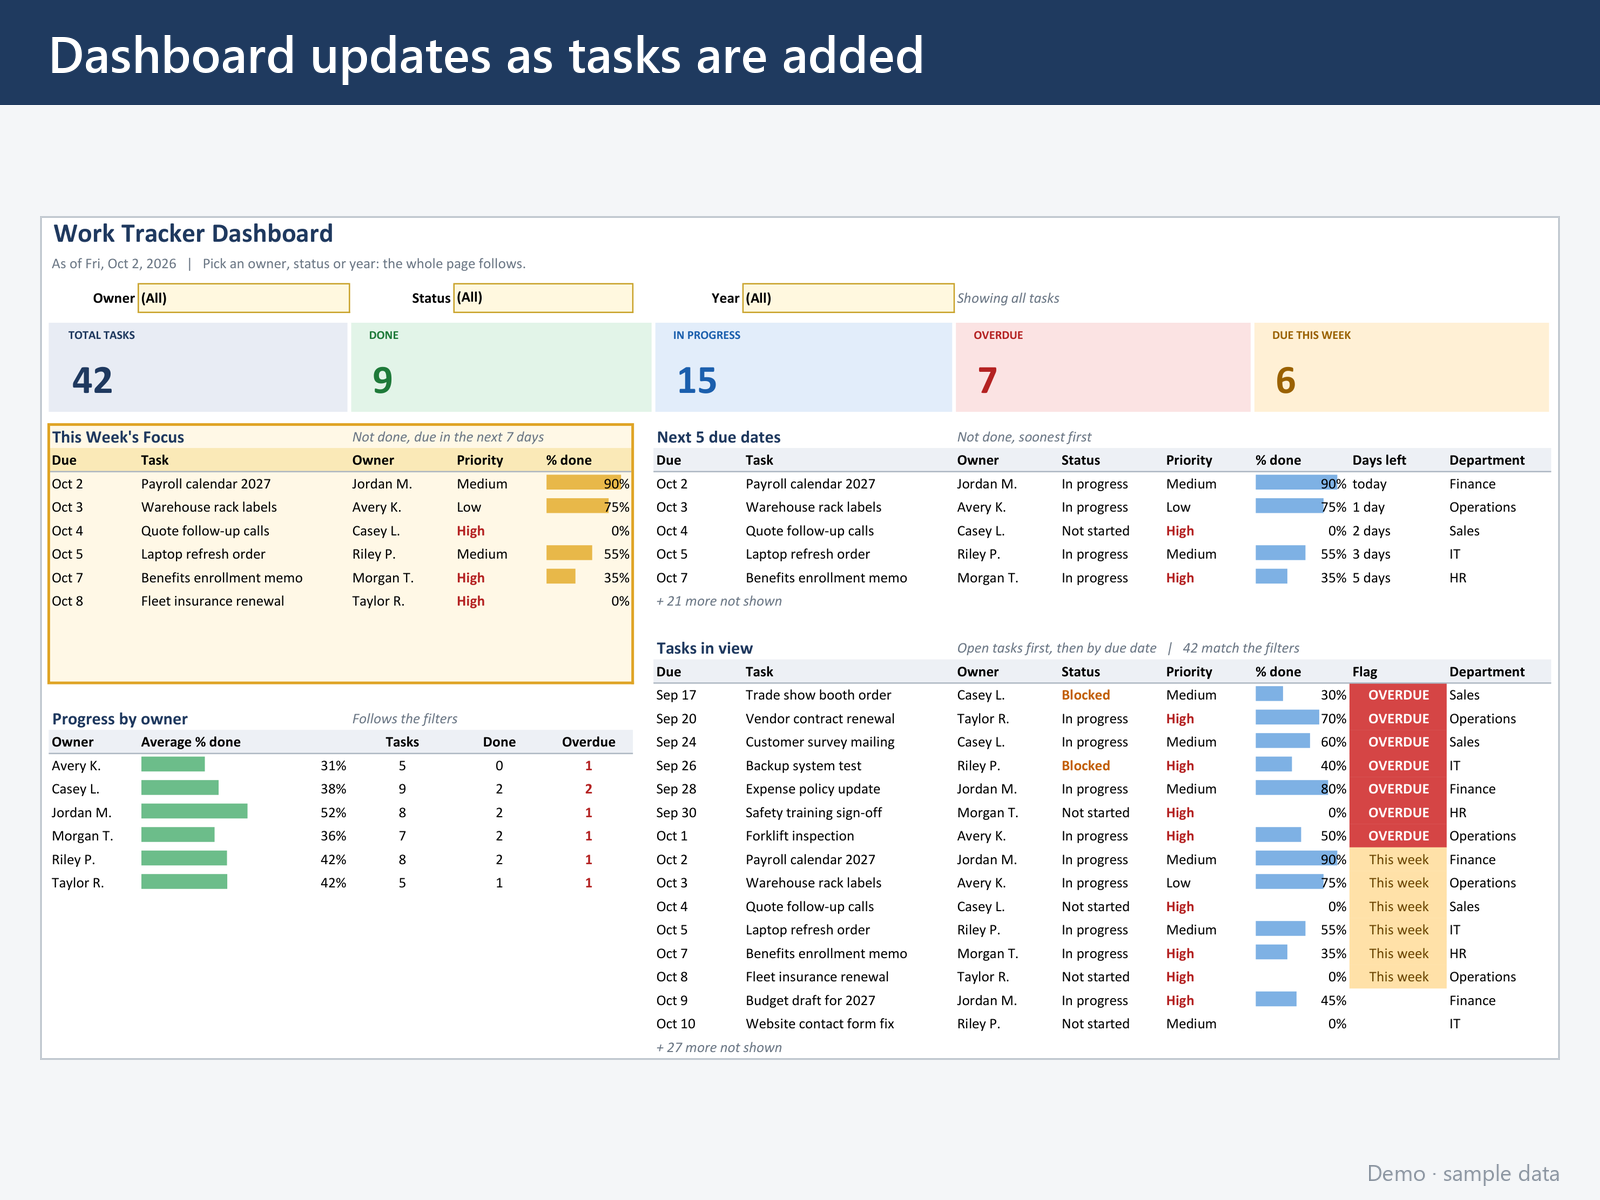
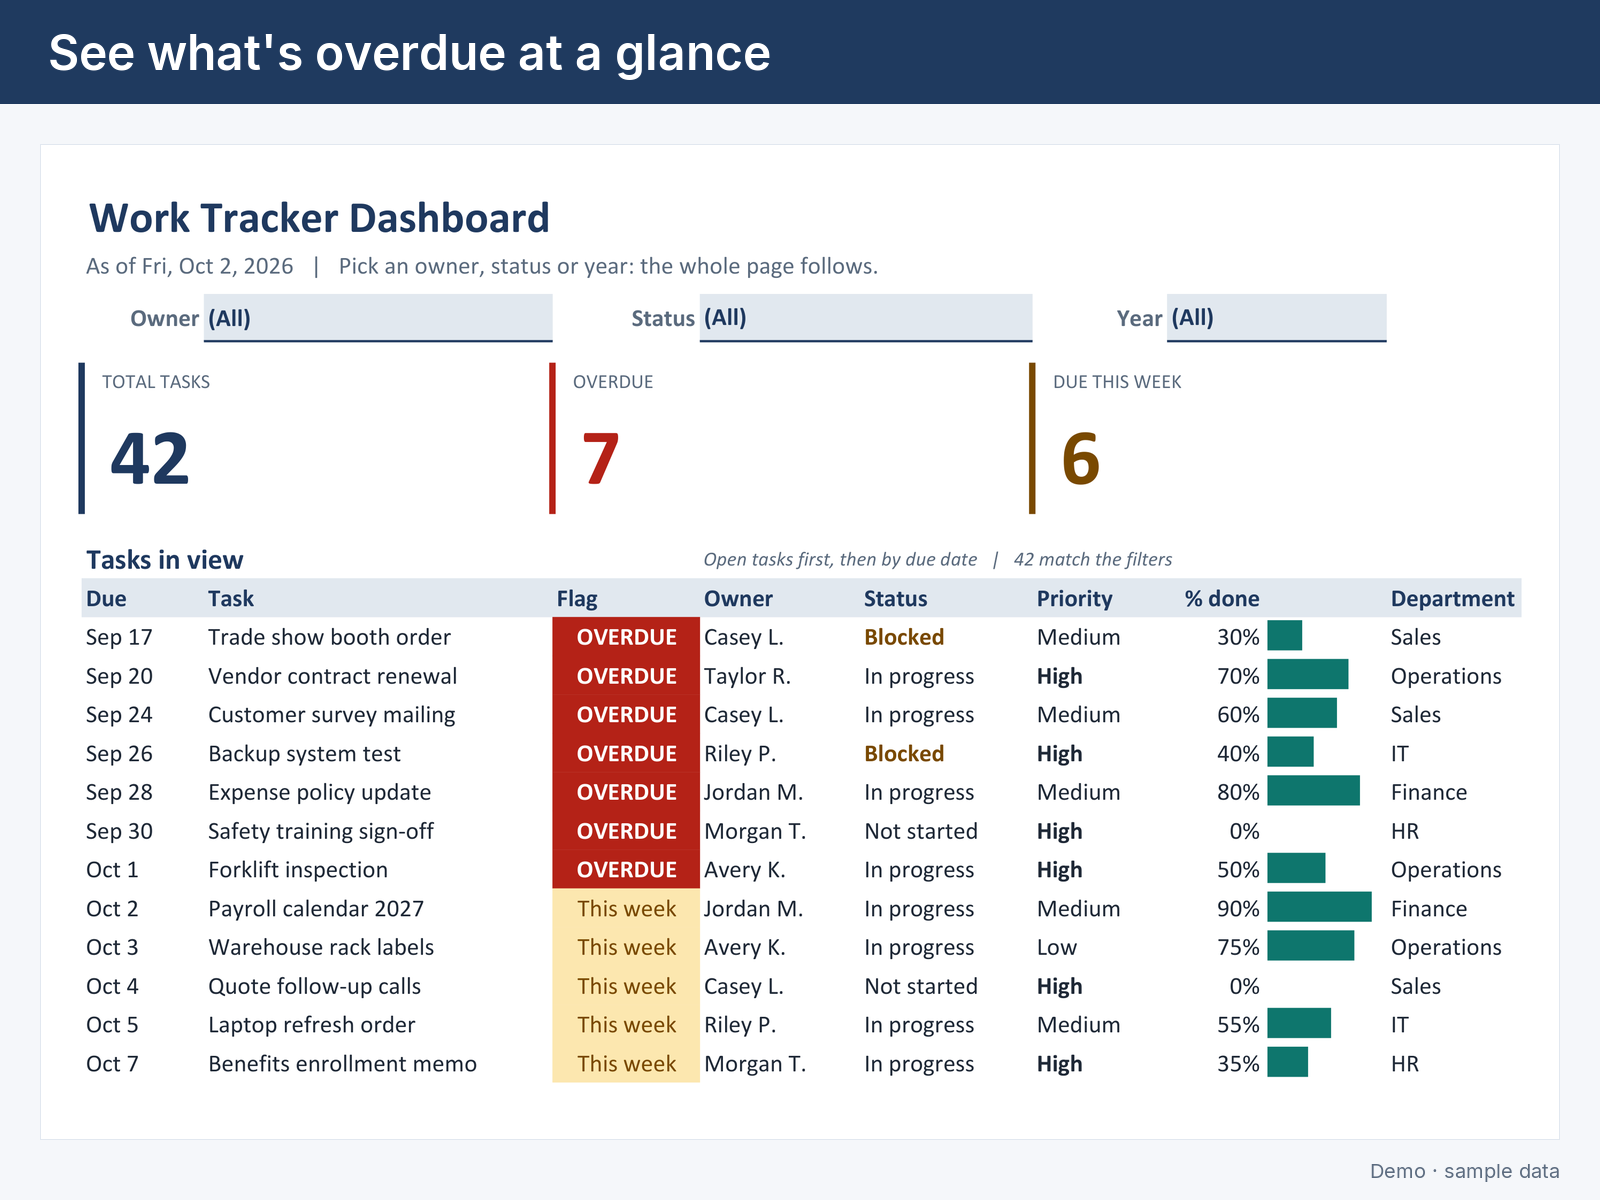
Rebuild the showcase images on the style guide template
The dashboard cropped to its three leading totals and the main list, the
same view filtered by owner, and a before/after of the plain task list and
the dashboard. The old third image (task table) is replaced.

diff --git a/tools/make_screenshots.py b/tools/make_screenshots.py
@@ -1,12 +1,19 @@
-"""Rebuild the portfolio screenshots in screenshots/ (PNG, exactly 1600x1200).
+"""Rebuild the showcase images in screenshots/ (PNG, exactly 1600x1200).
 
 Usage (Windows, with Excel installed):
     python tools\\make_screenshots.py
 
-The images are composites, not screen grabs, so no window, account name or file
-path can appear in them. Excel itself prints each view to PDF (in a private,
-hidden instance, with the workbook opened read-only and never saved), PyMuPDF
-draws the PDF, and Pillow adds the title strip.
+The images are composites on the AZG showcase template (tools\\showcase.py), not
+screen grabs, so no window, account name or file path can appear in them. Excel
+itself prints each view to PDF (in a private, hidden instance, with the workbook
+opened read-only and never saved), PyMuPDF draws the PDF, and the kit frames it.
+
+  1  the dashboard: the three leading totals and the main list
+  2  the same view with the Owner filter set
+  3  before / after: the plain task list, and the dashboard it feeds
+
+A 400 px wide copy of each image is written to screenshots\\_work\\ so the
+headline numbers can be checked at thumbnail size.
 """
 
 from __future__ import annotations
@@ -14,99 +21,38 @@ from __future__ import annotations
 from pathlib import Path
 
 import pymupdf
-from PIL import Image, ImageChops, ImageDraw, ImageFont
+from PIL import Image, ImageChops
+
+import showcase as kit  # tools\showcase.py: a copy of the AZG showcase kit
 
 ROOT = Path(__file__).resolve().parent.parent
 WORKBOOK = ROOT / "Work Tracker Demo.xlsx"
 SHOTS = ROOT / "screenshots"
 WORK = SHOTS / "_work"
-FONTS = Path(r"C:\Windows\Fonts")
-
-WIDTH, HEIGHT = 1600, 1200
-STRIP_HEIGHT = 104
-MARGIN = 40
-CONTENT_BOX = (MARGIN, STRIP_HEIGHT + 28, WIDTH - MARGIN, HEIGHT - 56)
-BACKGROUND = "#F4F6F8"
-STRIP = "#1F3A5F"
-FOOTNOTE = "Demo \u00b7 sample data"
 FILTER_OWNER = "Casey L."
 
-# file name, caption (4 to 8 words), sheet, range, {filter cell name: value}
-VIEWS = (
-    ("1-dashboard-overview.png", "Dashboard updates as tasks are added", "Dashboard", "A1:P37", {}),
-    ("2-filter-by-owner.png", "Pick an owner, the whole page follows", "Dashboard", "A1:P37", {"SelOwner": FILTER_OWNER}),
-    ("3-task-table-overdue-flags.png", "Overdue tasks flag themselves in red", "Tasks", "A1:I24", {}),
-)
+# The views Excel prints: name -> (sheet, range, {filter cell name: value},
+# columns to keep or None for all, cells to blank for this view only).
+# Nothing here is saved: the workbook is open read-only and closed without saving.
+VIEWS = {
+    "main": ("Dashboard", "A1:J24", {}, None, ()),  # top band, three tiles, the main list
+    "owner": ("Dashboard", "A1:J24", {"SelOwner": FILTER_OWNER}, None, ()),
+    # Two tiles and the list's first columns. The list's side note runs past
+    # column F and would be cut mid-sentence, so it is blanked for this view.
+    "after": ("Dashboard", "A1:F24", {}, None, ("E11",)),
+    "before": ("Tasks", "A1:K33", {}, ("B", "C", "E"), ()),  # Task, Owner, Status
+}
 
 
-def font(file_name: str, size: int) -> ImageFont.FreeTypeFont:
-    return ImageFont.truetype(str(FONTS / file_name), size)
-
-
-def fit(image: Image.Image, max_width: int, max_height: int) -> Image.Image:
-    scale = min(max_width / image.width, max_height / image.height)
-    size = (max(1, round(image.width * scale)), max(1, round(image.height * scale)))
-    return image.resize(size, Image.LANCZOS)
-
-
-def autocrop(image: Image.Image, pad: int = 10) -> Image.Image:
+def autocrop(image: Image.Image, pad: int = 12) -> Image.Image:
     image = image.convert("RGB")
     box = ImageChops.difference(image, Image.new("RGB", image.size, "white")).getbbox()
     if box is None:
         return image
-    return image.crop((max(box[0] - pad, 0), max(box[1] - pad, 0),
-                       min(box[2] + pad, image.width), min(box[3] + pad, image.height)))
-
-
-def compose(content: Image.Image, caption: str, out_path: Path) -> None:
-    """Title strip on top, the content scaled to fill the rest, footnote bottom right."""
-    canvas = Image.new("RGB", (WIDTH, HEIGHT), BACKGROUND)
-    draw = ImageDraw.Draw(canvas)
-    draw.rectangle((0, 0, WIDTH, STRIP_HEIGHT), fill=STRIP)
-    draw.text((MARGIN + 8, STRIP_HEIGHT // 2), caption, font=font("seguisb.ttf", 50), fill="white", anchor="lm")
-
-    left, top, right, bottom = CONTENT_BOX
-    scaled = fit(content, right - left - 4, bottom - top - 4)
-    card = Image.new("RGB", (scaled.width + 4, scaled.height + 4), "#C5CCD3")
-    card.paste(scaled, (2, 2))
-    canvas.paste(card, (left + (right - left - card.width) // 2, top + (bottom - top - card.height) // 2))
-
-    draw.text((WIDTH - MARGIN, HEIGHT - 28), FOOTNOTE, font=font("segoeui.ttf", 22), fill="#8A94A0", anchor="rm")
-    assert canvas.size == (WIDTH, HEIGHT)
-    canvas.save(out_path, "PNG")
-    print(f"  {out_path.name}  {canvas.width}x{canvas.height}")
-
-
-def export_views() -> list[Path]:
-    """Have Excel print each view to its own PDF. Nothing is saved to the workbook."""
-    import win32com.client as win32
-
-    WORK.mkdir(parents=True, exist_ok=True)
-    pdfs = []
-    excel = win32.DispatchEx("Excel.Application")  # a private instance, never the user's open Excel
-    try:
-        excel.Visible = False
-        excel.DisplayAlerts = False
-        workbook = excel.Workbooks.Open(str(WORKBOOK), 0, True)  # no link updates, read-only
-        for file_name, _, sheet_name, address, filters in VIEWS:
-            for name in ("SelOwner", "SelStatus", "SelYear"):
-                workbook.Names(name).RefersToRange.Value = filters.get(name, "(All)")
-            excel.CalculateFull()
-            sheet = workbook.Worksheets(sheet_name)
-            setup = sheet.PageSetup
-            setup.Orientation = 2  # landscape
-            setup.Zoom = False
-            setup.FitToPagesWide = 1
-            setup.FitToPagesTall = 1
-            setup.PrintHeadings = sheet_name == "Tasks"
-            setup.PrintGridlines = False
-            pdf_path = WORK / (Path(file_name).stem + ".pdf")
-            sheet.Range(address).ExportAsFixedFormat(0, str(pdf_path), 0, False, False)
-            pdfs.append(pdf_path)
-        workbook.Close(False)
-    finally:
-        excel.Quit()
-    return pdfs
+    cropped = image.crop(box)
+    framed = Image.new("RGB", (cropped.width + 2 * pad, cropped.height + 2 * pad), "white")
+    framed.paste(cropped, (pad, pad))
+    return framed
 
 
 def pdf_image(pdf_path: Path, dpi: int = 300) -> Image.Image:
@@ -115,13 +61,70 @@ def pdf_image(pdf_path: Path, dpi: int = 300) -> Image.Image:
         return Image.frombytes("RGB", (pixmap.width, pixmap.height), pixmap.samples)
 
 
+def export_views() -> dict[str, Image.Image]:
+    """Have Excel print each view to its own PDF. Nothing is saved to the workbook."""
+    import win32com.client as win32
+
+    WORK.mkdir(parents=True, exist_ok=True)
+    pdfs = {}
+    excel = win32.DispatchEx("Excel.Application")  # a private instance, never the user's open Excel
+    try:
+        excel.Visible = False
+        excel.DisplayAlerts = False
+        workbook = excel.Workbooks.Open(str(WORKBOOK), 0, True)  # no link updates, read-only
+        for name, (sheet_name, address, filters, keep_columns, blank_cells) in VIEWS.items():
+            for filter_name in ("SelOwner", "SelStatus", "SelYear"):
+                workbook.Names(filter_name).RefersToRange.Cells(1, 1).Value = filters.get(filter_name, "(All)")
+            sheet = workbook.Worksheets(sheet_name)
+            for cell in blank_cells:
+                sheet.Range(cell).ClearContents()
+            excel.CalculateFull()
+            if keep_columns:
+                for index in range(1, sheet.Range(address).Columns.Count + 1):
+                    letter = chr(ord("A") + index - 1)
+                    sheet.Columns(letter).Hidden = letter not in keep_columns
+            setup = sheet.PageSetup
+            setup.Orientation = 2 if sheet_name == "Dashboard" else 1
+            setup.Zoom = False
+            setup.FitToPagesWide = 1
+            setup.FitToPagesTall = 1
+            setup.PrintHeadings = False
+            setup.PrintGridlines = False
+            pdfs[name] = WORK / f"{name}.pdf"
+            sheet.Range(address).ExportAsFixedFormat(0, str(pdfs[name]), 0, False, True)
+        workbook.Close(False)
+    finally:
+        excel.Quit()
+    return {name: autocrop(pdf_image(path)) for name, path in pdfs.items()}
+
+
+def finish(card: Image.Image, caption: str, file_name: str, note: str = "") -> None:
+    path = kit.compose(card, caption, SHOTS / file_name)
+    small = kit.thumbnail(path, WORK)
+    print(f"  {path.name}  {kit.WIDTH}x{kit.HEIGHT}  {note}  (thumbnail: _work\\{small.name})")
+
+
+def filled_card(view: Image.Image) -> tuple[Image.Image, float]:
+    card = kit.new_card()
+    _, scale = kit.place(card, view, kit.inner(card))
+    return card, scale
+
+
 def main() -> int:
     SHOTS.mkdir(exist_ok=True)
-    print("Excel is printing the views to PDF ...")
-    pdfs = export_views()
+    print(f"showcase kit {kit.__version__}. Excel is printing the views to PDF ...")
+    views = export_views()
     print("Writing screenshots:")
-    for (file_name, caption, *_), pdf_path in zip(VIEWS, pdfs):
-        compose(autocrop(pdf_image(pdf_path)), caption, SHOTS / file_name)
+
+    card, _ = filled_card(views["main"])
+    finish(card, "See what's overdue at a glance", "1-dashboard-overview.png")
+
+    card, _ = filled_card(views["owner"])
+    finish(card, "Pick an owner, the page follows", "2-filter-by-owner.png")
+
+    card, _ = kit.before_after(views["before"], views["after"], share=0.40,
+                               before_note="a plain task list", after_note="the dashboard it feeds")
+    finish(card, "From a task list to a live dashboard", "3-before-after-list-to-dashboard.png")
     return 0
 
 
